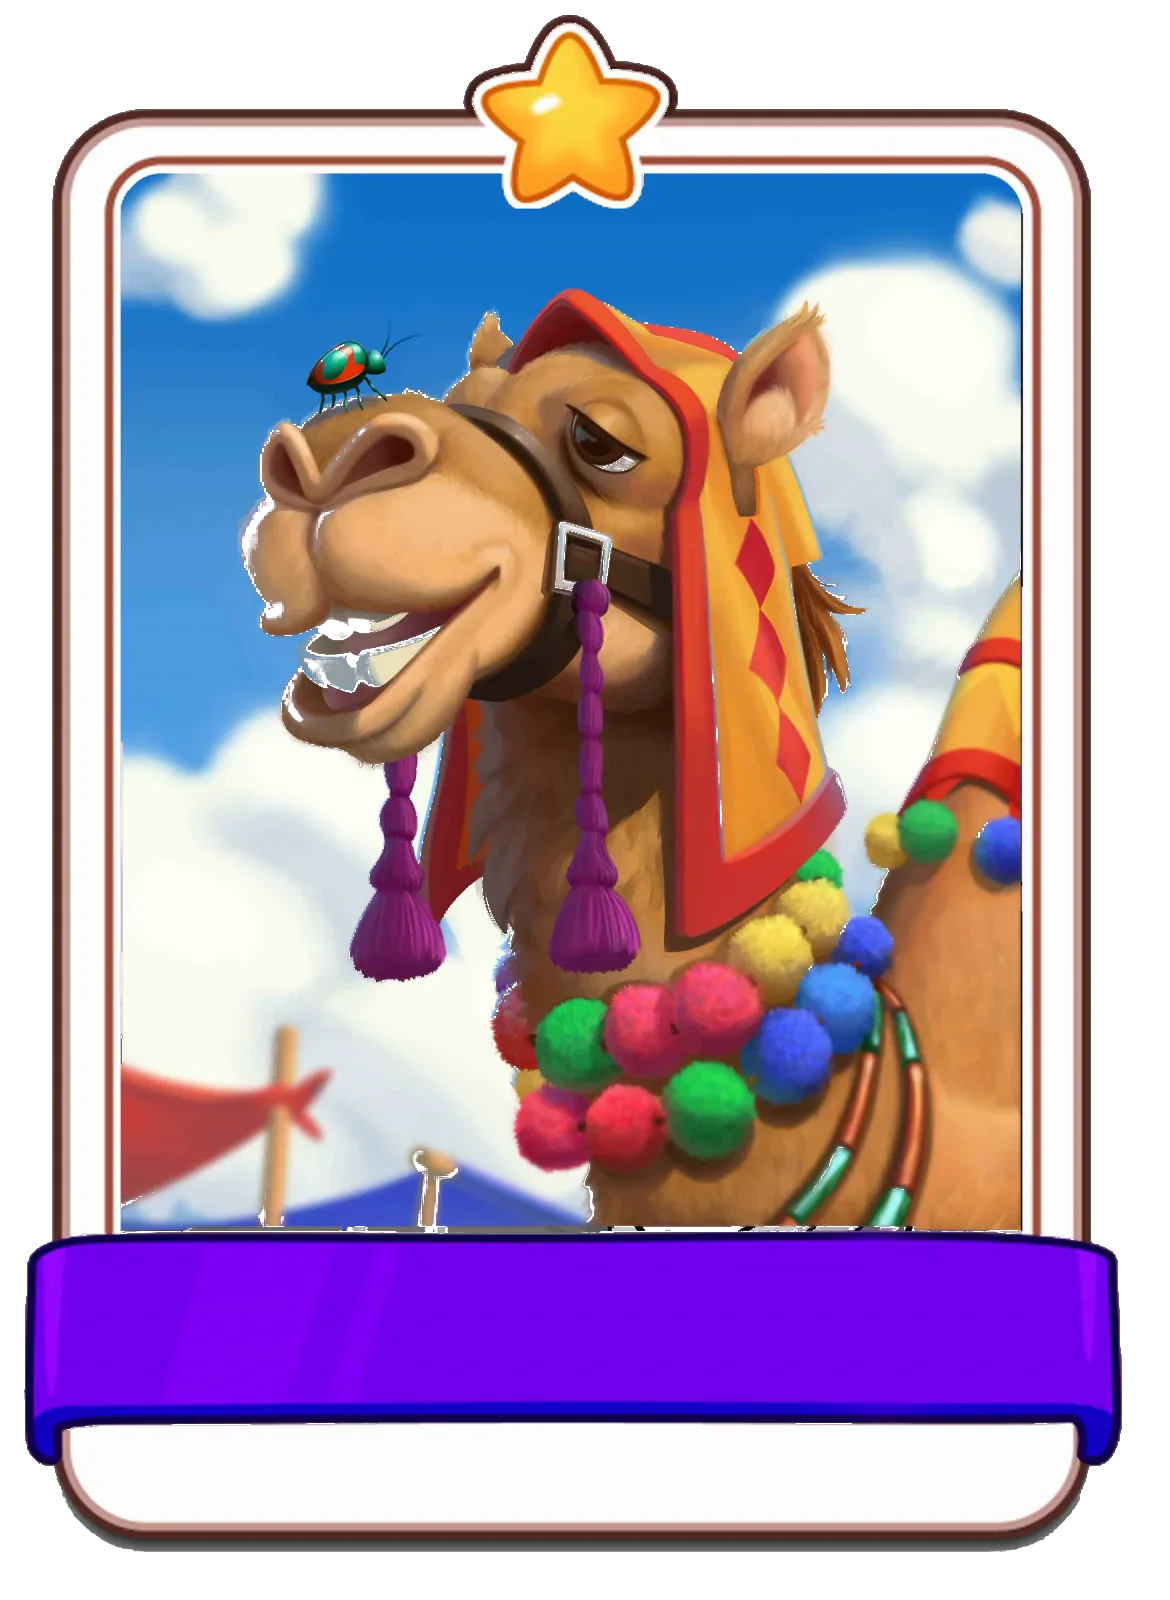
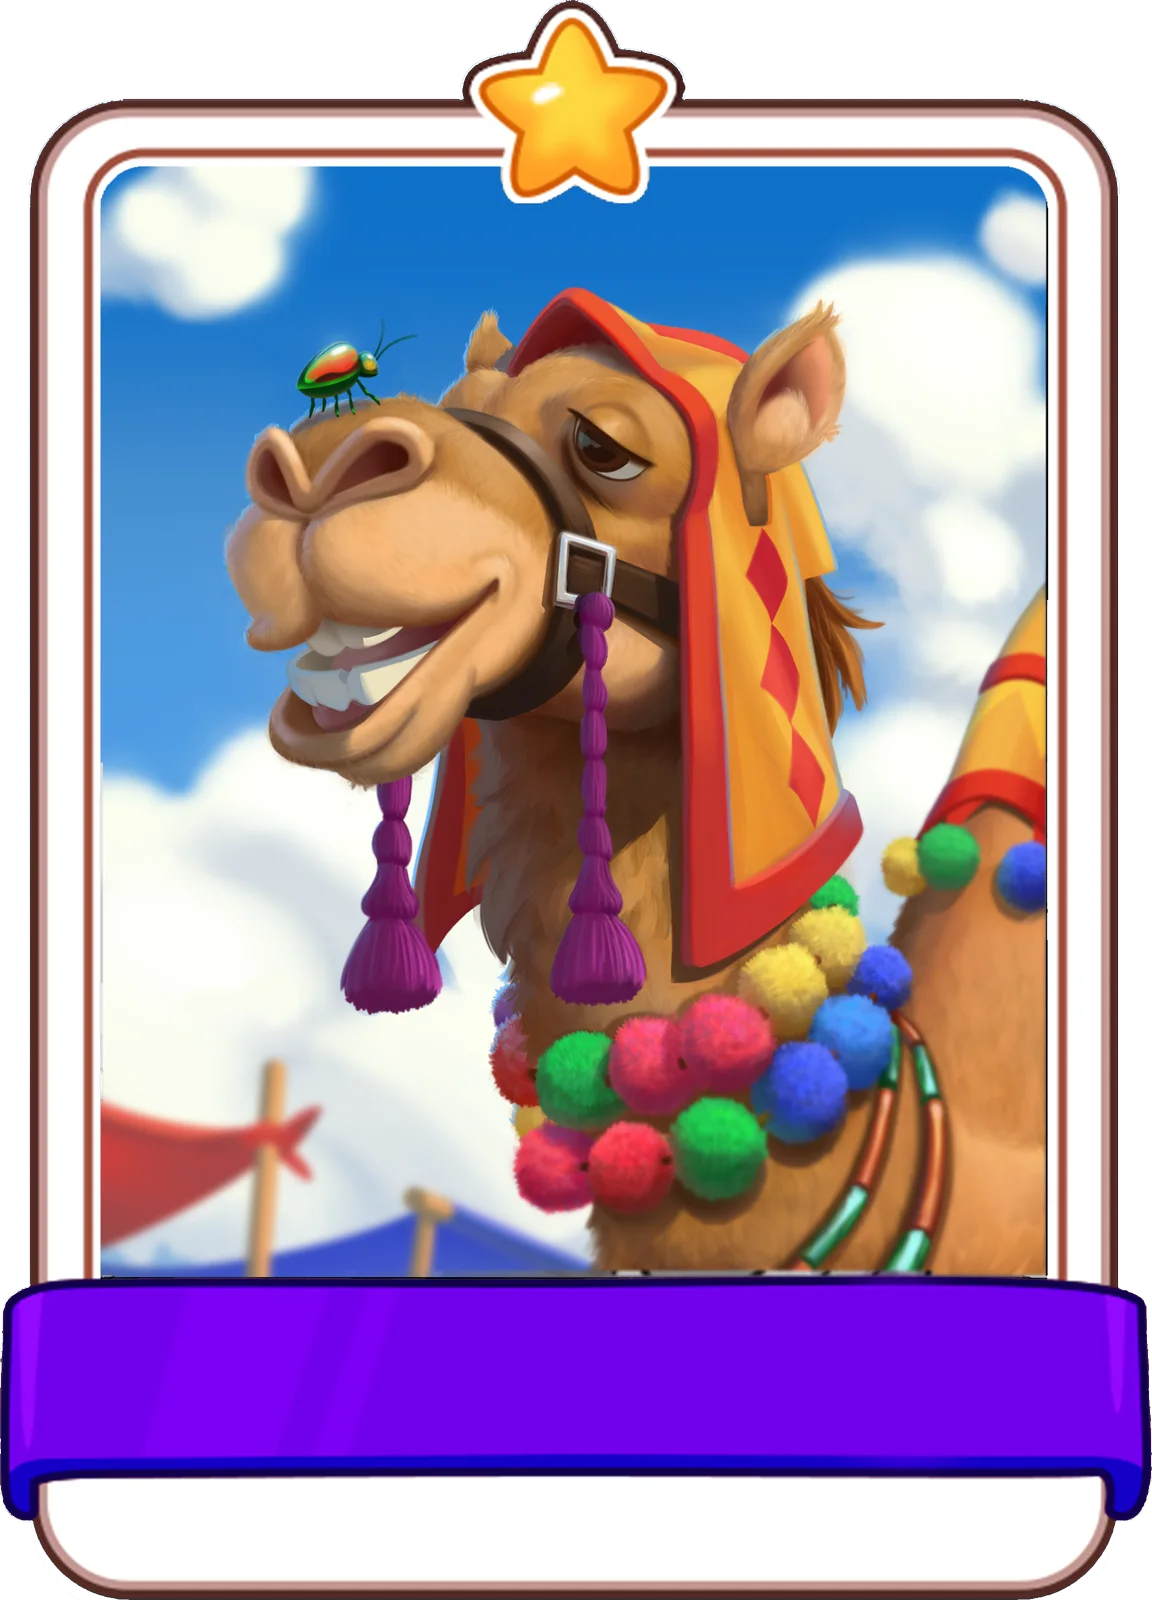
Fix Coin Master camel card and match card scale; close viewer on outside click

diff --git a/coin-master.html b/coin-master.html
@@ -81,9 +81,9 @@
       <h2>Cards</h2>
       <div class="gallery rows">
         <div class="row">
-          <figure style="--r:0.731"><img src="images/work/coin-master/camelmarket-card.webp" alt="Camel market" loading="lazy"><figcaption>Camel market</figcaption></figure>
-          <figure style="--r:0.685"><img src="images/work/coin-master/card01-quesero-v4.webp" alt="The cheesemonger" loading="lazy"><figcaption>The cheesemonger</figcaption></figure>
-          <figure style="--r:0.685"><img src="images/work/coin-master/card04-cheeseesv03.webp" alt="Cheeses" loading="lazy"><figcaption>Cheeses</figcaption></figure>
+          <figure style="--r:0.72"><img src="images/work/coin-master/camelmarket-card.webp?v=2" alt="Camel market" loading="lazy"><figcaption>Camel market</figcaption></figure>
+          <figure style="--r:0.716"><img src="images/work/coin-master/card01-quesero-v4.webp?v=2" alt="The cheesemonger" loading="lazy"><figcaption>The cheesemonger</figcaption></figure>
+          <figure style="--r:0.7175"><img src="images/work/coin-master/card04-cheeseesv03.webp?v=2" alt="Cheeses" loading="lazy"><figcaption>Cheeses</figcaption></figure>
         </div>
       </div>
     </section>
@@ -100,6 +100,6 @@
         </div>
     </div>
   </footer>
-  <script src="site.js?v=11"></script>
+  <script src="site.js?v=12"></script>
 </body>
 </html>

diff --git a/site.js b/site.js
@@ -69,7 +69,15 @@ document.querySelectorAll(".gallery figure:not(.compare) img, .shots img").forEa
 box.querySelector(".lb-close").addEventListener("click", closeBox);
 box.querySelector(".lb-prev").addEventListener("click", () => show(current - 1));
 box.querySelector(".lb-next").addEventListener("click", () => show(current + 1));
-box.addEventListener("click", (e) => { if (e.target === box) closeBox(); });   // click the dark backdrop
+// clicking anywhere outside the image closes it; a small margin around the image is forgiven so near-misses don't
+const CLICK_MARGIN = 40;
+box.addEventListener("click", (e) => {
+  if (e.target.closest("button")) return;
+  const r = boxImg.getBoundingClientRect();
+  const inside = e.clientX > r.left - CLICK_MARGIN && e.clientX < r.right + CLICK_MARGIN &&
+                 e.clientY > r.top - CLICK_MARGIN && e.clientY < r.bottom + CLICK_MARGIN;
+  if (!inside) closeBox();
+});
 document.addEventListener("keydown", (e) => {
   if (!box.classList.contains("open")) return;
   if (e.key === "Escape") closeBox();

diff --git a/animation.html b/animation.html
@@ -121,6 +121,6 @@
         </div>
     </div>
   </footer>
-  <script src="site.js?v=11"></script>
+  <script src="site.js?v=12"></script>
 </body>
 </html>

diff --git a/bingo-blitz.html b/bingo-blitz.html
@@ -147,6 +147,6 @@
         </div>
     </div>
   </footer>
-  <script src="site.js?v=11"></script>
+  <script src="site.js?v=12"></script>
 </body>
 </html>

diff --git a/blaze.html b/blaze.html
@@ -109,6 +109,6 @@
         </div>
     </div>
   </footer>
-  <script src="site.js?v=11"></script>
+  <script src="site.js?v=12"></script>
 </body>
 </html>

diff --git a/bumperland.html b/bumperland.html
@@ -150,6 +150,6 @@
         </div>
     </div>
   </footer>
-  <script src="site.js?v=11"></script>
+  <script src="site.js?v=12"></script>
 </body>
 </html>

diff --git a/common-side-effects.html b/common-side-effects.html
@@ -273,6 +273,6 @@
         </div>
     </div>
   </footer>
-  <script src="site.js?v=11"></script>
+  <script src="site.js?v=12"></script>
 </body>
 </html>

diff --git a/espn-tailgate.html b/espn-tailgate.html
@@ -121,6 +121,6 @@
         </div>
     </div>
   </footer>
-  <script src="site.js?v=11"></script>
+  <script src="site.js?v=12"></script>
 </body>
 </html>

diff --git a/forgotten-runes.html b/forgotten-runes.html
@@ -111,6 +111,6 @@
         </div>
     </div>
   </footer>
-  <script src="site.js?v=11"></script>
+  <script src="site.js?v=12"></script>
 </body>
 </html>

diff --git a/index.html b/index.html
@@ -131,6 +131,6 @@
         </div>
     </div>
   </footer>
-  <script src="site.js?v=11"></script>
+  <script src="site.js?v=12"></script>
 </body>
 </html>

diff --git a/iyanu.html b/iyanu.html
@@ -112,6 +112,6 @@
         </div>
     </div>
   </footer>
-  <script src="site.js?v=11"></script>
+  <script src="site.js?v=12"></script>
 </body>
 </html>

diff --git a/lilys-garden.html b/lilys-garden.html
@@ -202,6 +202,6 @@
         </div>
     </div>
   </footer>
-  <script src="site.js?v=11"></script>
+  <script src="site.js?v=12"></script>
 </body>
 </html>
